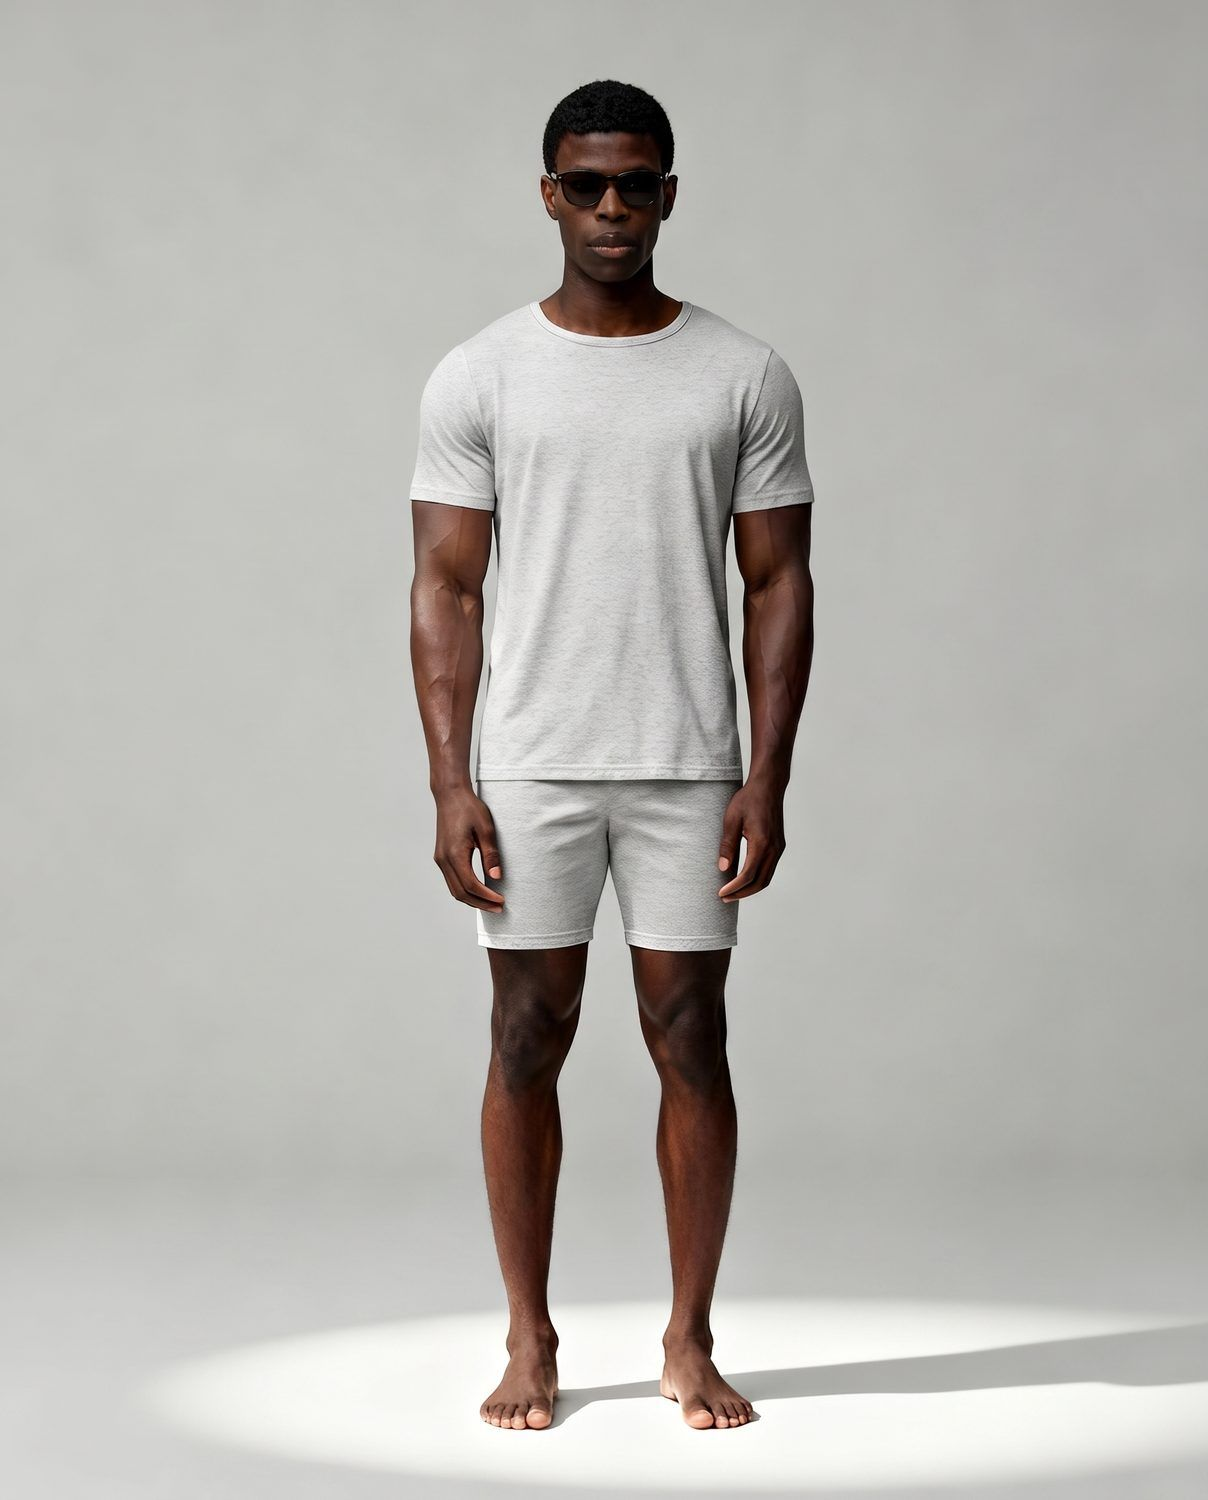
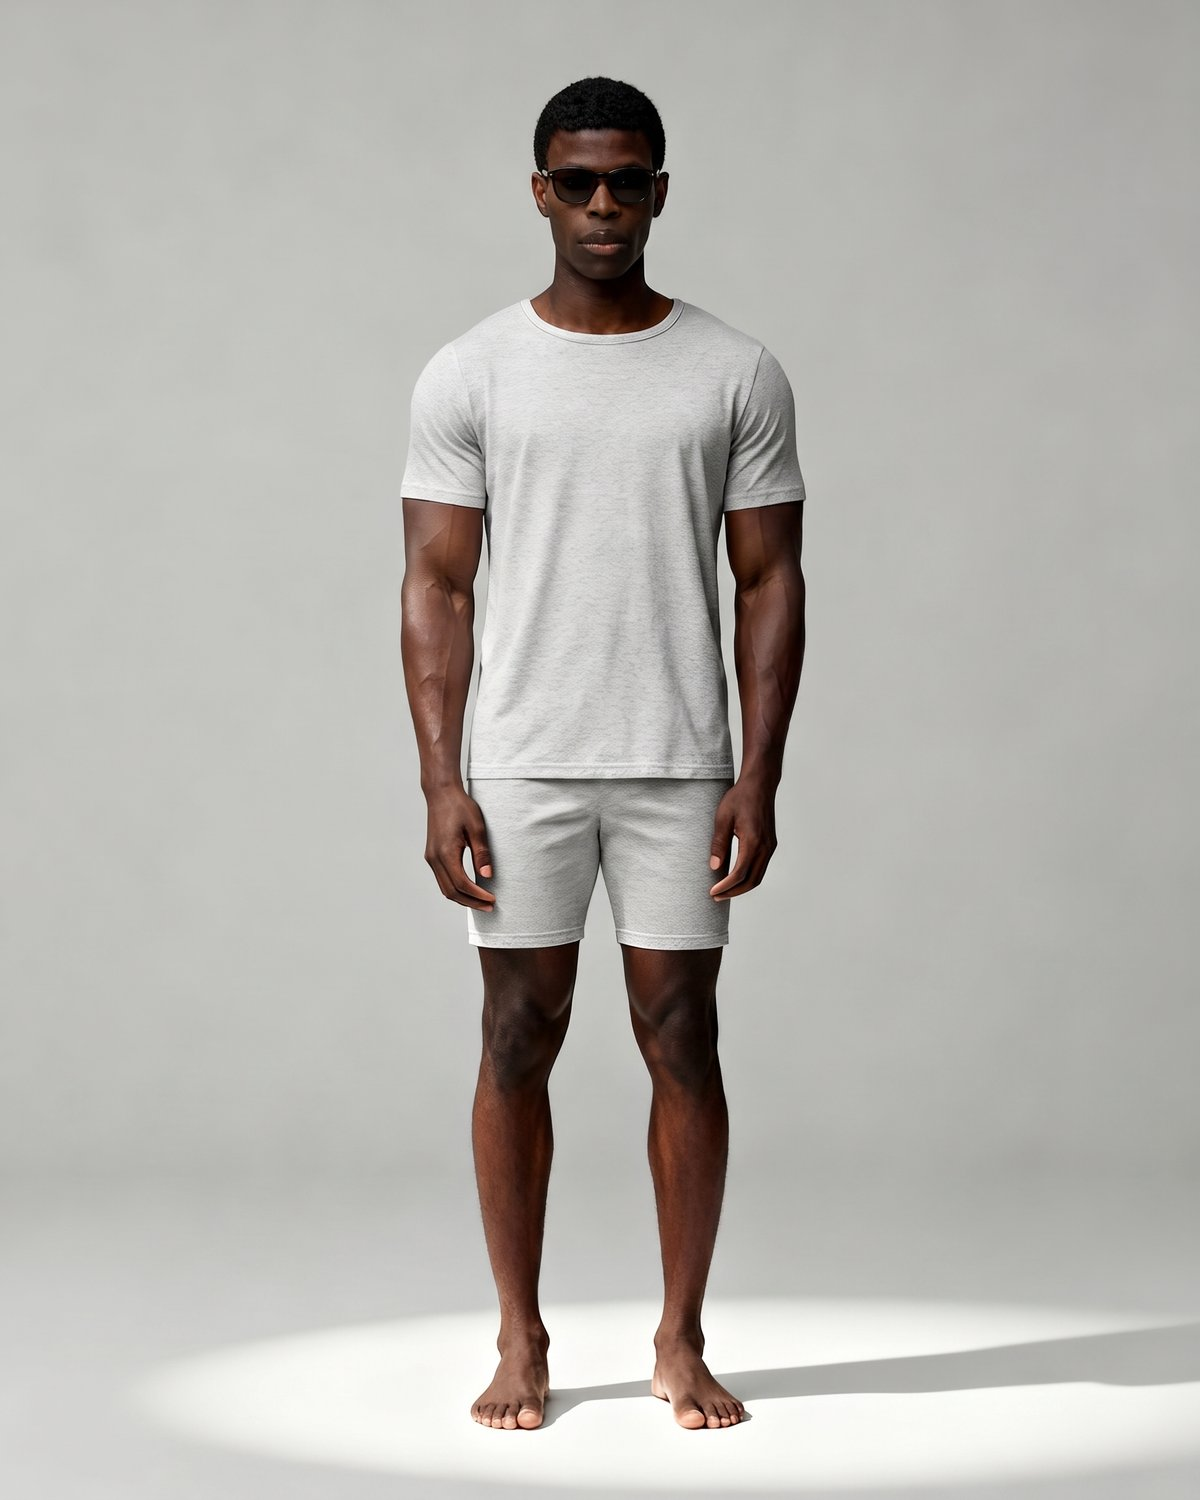
전신 썸네일 통일 + 2-PACK 리뉴얼 + PDP 발 안 잘림
- 의류 전신 썸네일 3종(메쉬/세미크롭 블랙·그레이): 모델이 4:5 프레임의 94% 차지하도록 통일 크롭 — 발까지 항상 보임
- 메쉬 셔츠: 원본이 발목에서 잘려 있어 나노바나나 아웃페인팅으로 발 복원
- 2-PACK: 4:5 풀블리드로 모델 크게 + 나노바나나로 배경을 이음새 없는 단일 라이트그레이로 통일
- 호버용 플랫 콜라주도 4:5(위 블랙/아래 그레이)로 재구성
- 상세페이지 메인 이미지 cover→contain (전신샷 발 안 잘림)

diff --git a/screen-product.jsx b/screen-product.jsx
@@ -54,7 +54,7 @@ function ProductPage({ nav, openProduct, productId }) {
                 </button>
               ))}
             </div>
-            <div style={{ aspectRatio: "1 / 1", backgroundColor: "var(--soft-cloud)", backgroundImage: `url(${gallery[thumb]})`, backgroundSize: "cover", backgroundPosition: "center" }} />
+            <div style={{ aspectRatio: "1 / 1", backgroundColor: "var(--soft-cloud)", backgroundImage: `url(${gallery[thumb]})`, backgroundSize: "contain", backgroundRepeat: "no-repeat", backgroundPosition: "center" }} />
           </div>
 
           {/* Info */}
